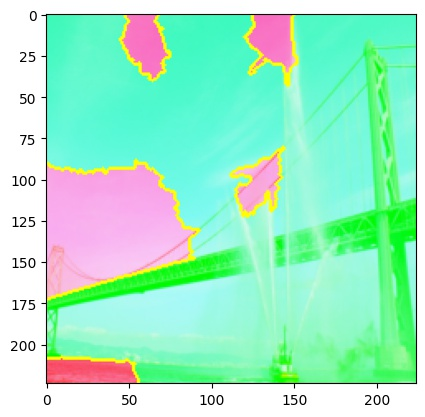
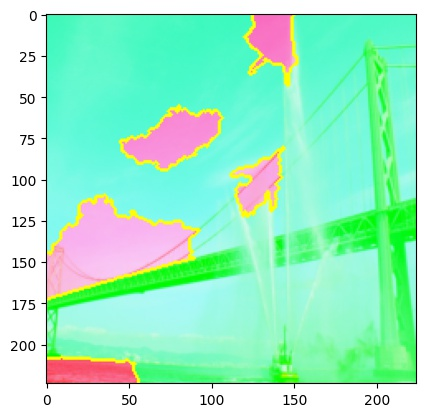
full resutls for percentile method

Changed region(s): [[0.0918, 0.2494, 0.5506, 0.6235], [0.2753, 0.0312, 0.4282, 0.2182]]

diff --git a/runner.py b/runner.py
@@ -110,8 +110,8 @@ def evaluate_pixel_based_methods_range(explanation, input_image, image_name, mod
     return max_percentile, max_probability
 
 
-def evaluate_pixel_based_methods_features_range(explanation, input_image, image_name, model, categories,
-                                                correct_label, explanation_norm_type, num_x, x_type):
+def evaluate_pixel_based_methods_percentile_agg_range(explanation, input_image, image_name, model, categories,
+                                                      correct_label, explanation_norm_type, num_x, x_type):
     # takes in single image!
     explanation = normalize_arr(explanation, explanation_norm_type=explanation_norm_type)
     agg_explanation = explanation.sum(dim=1)
@@ -161,9 +161,9 @@ def evaluate_lime(lime_explanation, input_image, model, categories, image_name, 
 
 if __name__ == '__main__':
     # setting vars
-    image_path = "./data/dog.jpg"
-    image_name = "samoyed"
-    label_name = "Samoyed"
+    image_path = "data/junco.jpeg"
+    image_name = "junco"
+    label_name = "junco"
     explanation_norm_type = "none"
     path = './outputs/results_' + image_name + '_' + explanation_norm_type + '.txt'
 
@@ -208,6 +208,7 @@ if __name__ == '__main__':
     step = 50
     explanation_ig = get_explanation_ig(MODEL, input_batch, CATEGORIES, label_name)
 
+    # ig - percentile
     max_percentile, max_probability = evaluate_pixel_based_methods_range(
         explanation=explanation_ig,
         input_image=input_image,
@@ -219,13 +220,31 @@ if __name__ == '__main__':
         num_x=200,
         x_type="percentile",
     )
-
     print("\nIntegrated Gradient")
     print(f'Maximum Probability of {label_name}: {max_probability}')
     print(f'Percentile with Maximum Probability: {max_percentile}')
 
+    # ig - percentile agg
+    max_percentile_agg, max_probability = evaluate_pixel_based_methods_percentile_agg_range(
+        explanation=explanation_ig,
+        input_image=input_image,
+        image_name=image_name + "_ig",
+        model=MODEL,
+        categories=CATEGORIES,
+        correct_label=label_name,
+        explanation_norm_type=explanation_norm_type,
+        num_x=200,
+        x_type="percentile_agg"
+    )
+
+    print("\nIntegrated Gradient")
+    print(f'Maximum Probability of {label_name}: {max_probability}')
+    print(f'Aggregated Percentile with Maximum Probability: {max_percentile}')
+
     # local data matrix
     explanation_ldm = get_explanation_ldm(MODEL, input_batch)
+
+    # ldm - percentile
     max_percentile, max_probability = evaluate_pixel_based_methods_range(
         explanation=explanation_ldm,
         input_image=input_image,
@@ -241,3 +260,20 @@ if __name__ == '__main__':
     print("\nLocal Data Matrix")
     print(f'Maximum Probability of {label_name}: {max_probability}')
     print(f'Percentile with Maximum Probability: {max_percentile}')
+
+    # ldm - percentile agg
+    max_percentile, max_probability = evaluate_pixel_based_methods_percentile_agg_range(
+        explanation=explanation_ldm,
+        input_image=input_image,
+        image_name=image_name + "_idm",
+        model=MODEL,
+        categories=CATEGORIES,
+        correct_label=label_name,
+        explanation_norm_type=explanation_norm_type,
+        num_x=200,
+        x_type="percentile_add",
+    )
+
+    print("\nLocal Data Matrix")
+    print(f'Maximum Probability of {label_name}: {max_probability}')
+    print(f'Aggregated Percentile with Maximum Probability: {max_percentile}')
